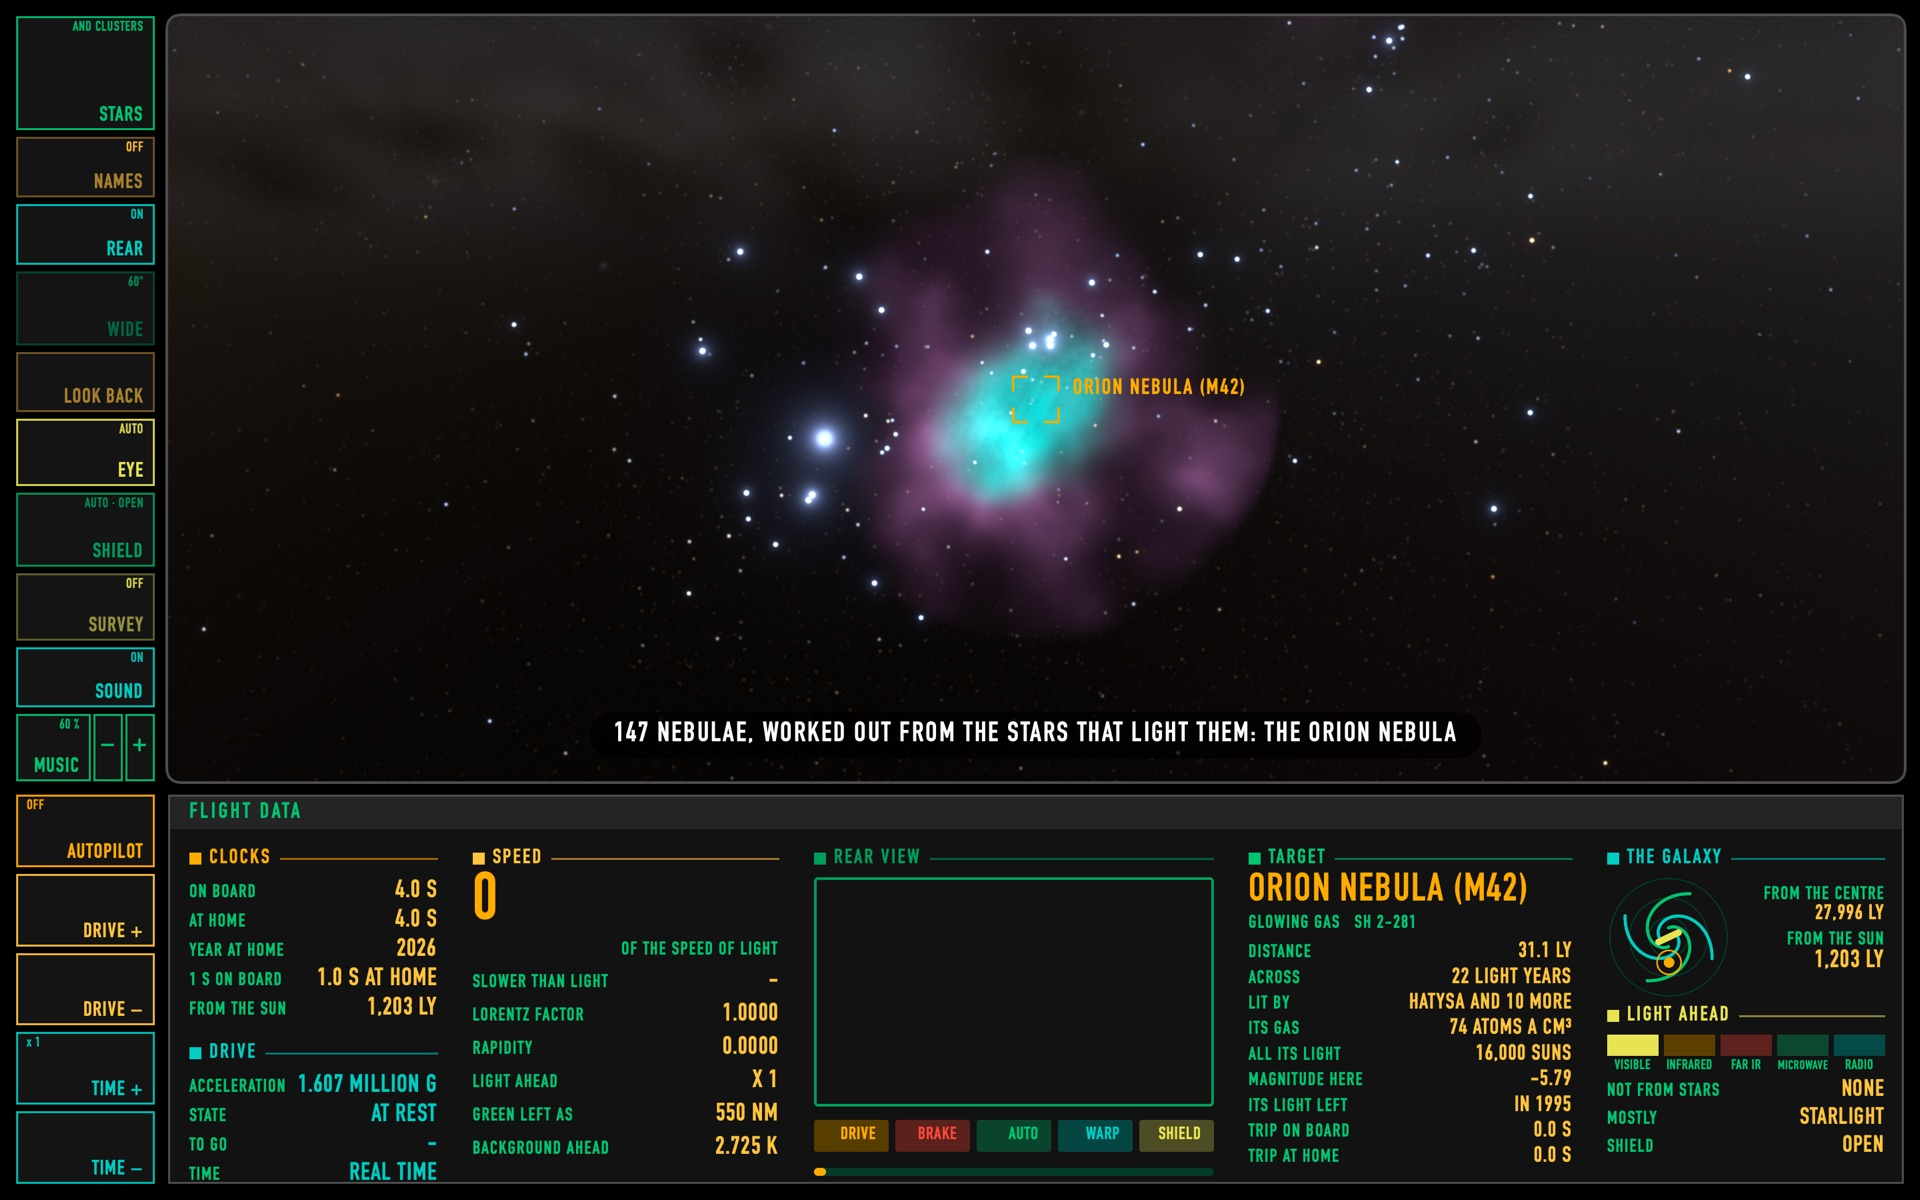
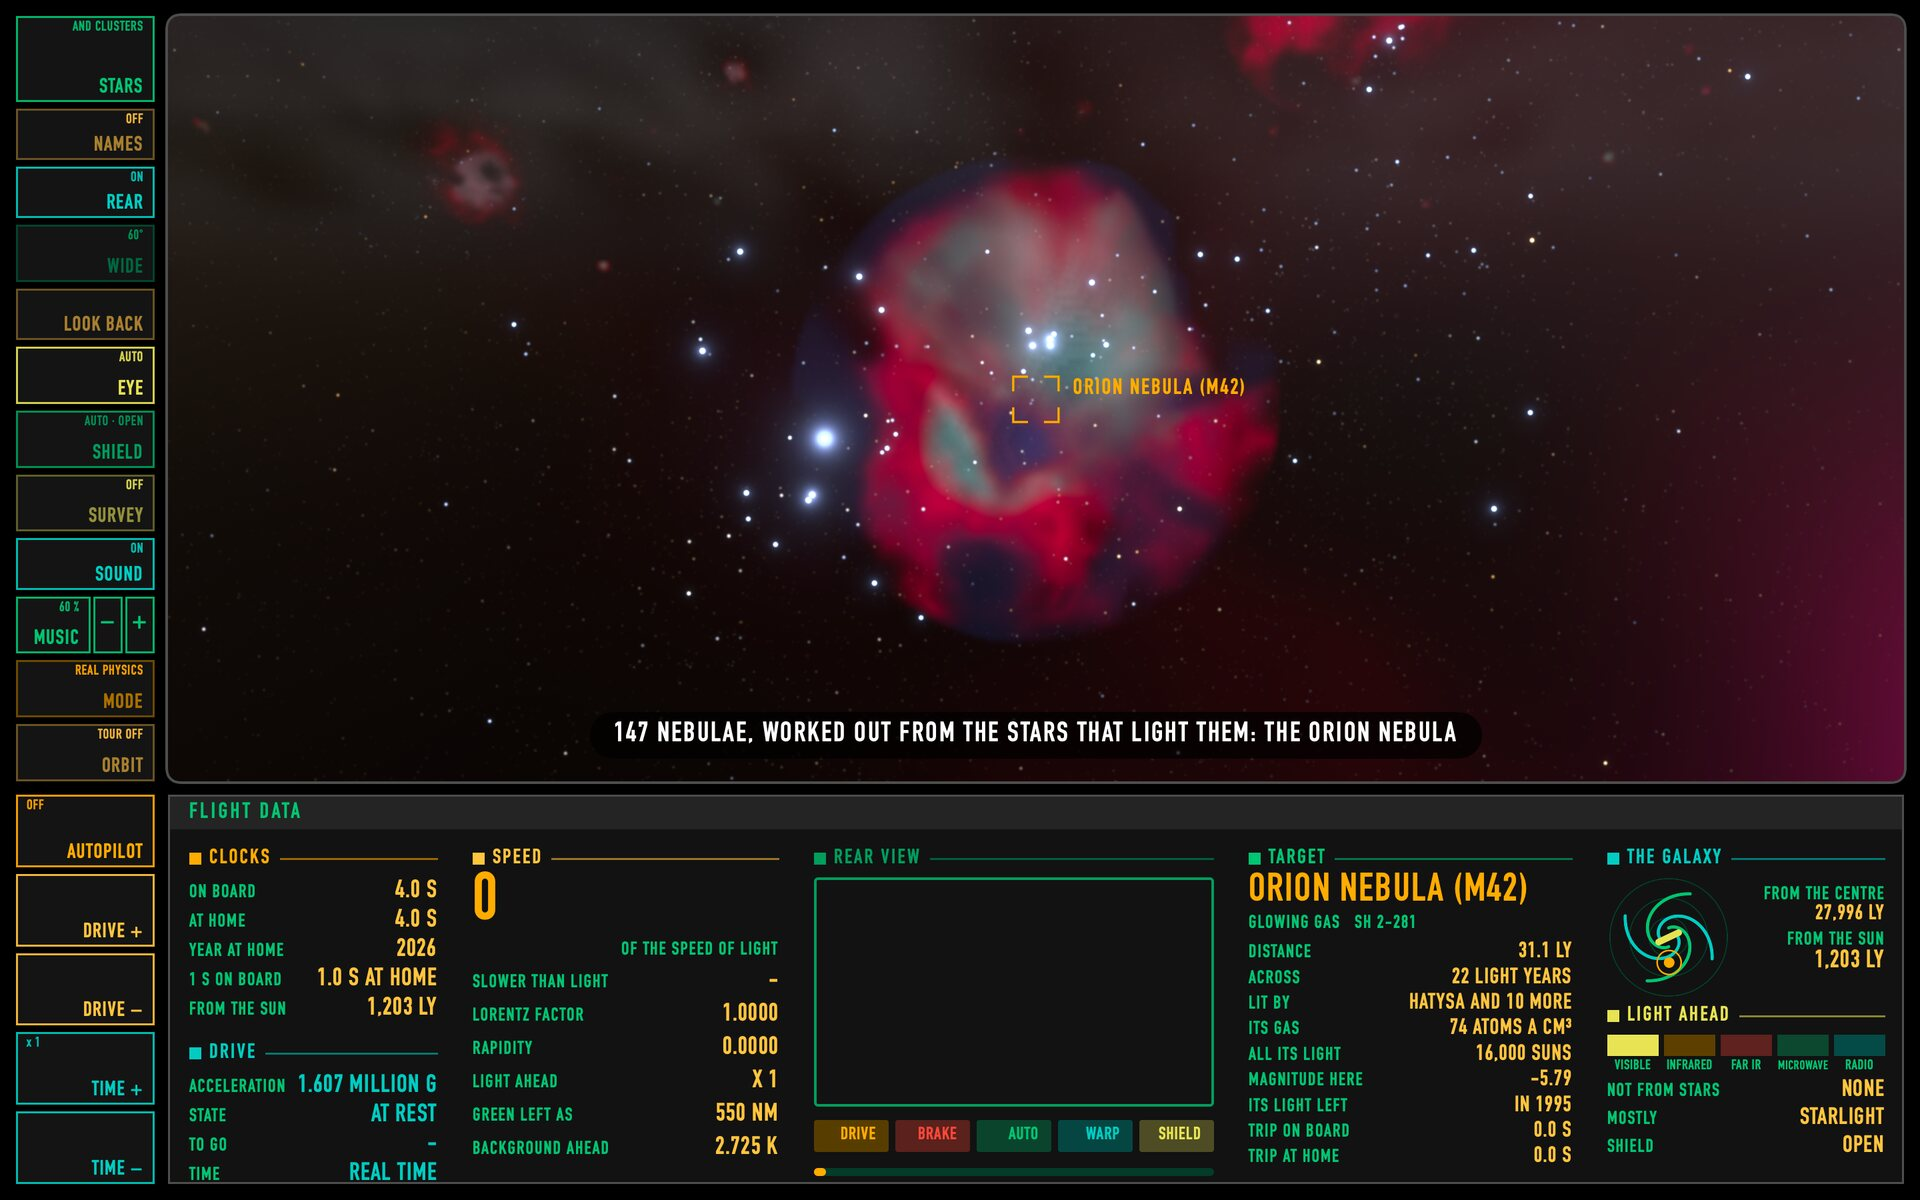
Milky Way Sim: the nebulae as a camera takes them, on the homepage

diff --git a/MilkyWaySim/index.html b/MilkyWaySim/index.html
@@ -456,6 +456,19 @@
             </div>
         </section>
 
+        <section id="nebulae">
+            <div class="wrap grid2">
+                <div class="shot reveal"><img src="img/nebula-orion.jpg" alt="The Orion Nebula in Milky Way Sim: red glowing hydrogen, a blue-green heart and the stars that light it, shaped after a photograph" loading="lazy" width="1920" height="1200"></div>
+                <div class="reveal">
+                    <div class="label">Glowing gas</div>
+                    <h2>Nebulae as a camera takes them</h2>
+                    <p>147 clouds of gas, each lit by the real stars inside it, in the colours of long-exposure photographs: the deep red of hydrogen, the blue-green of oxygen near the hottest stars, dark lanes of dust. One key shows them as the eye would: pale, and only their bright hearts.</p>
+                    <p style="margin-top:14px">Eleven of the best known take their shape from real photographs, among them Orion, the Lagoon, the Eagle, the Trifid and the Rosette. All are three-dimensional: fly in, or let the orbit tour take you round.</p>
+                    <p style="margin-top:14px;font-size:13px;opacity:0.7">Shapes after photographs (CC BY 4.0) by ESO, ESO/Igor Chekalin, ESO/B. Bailleul, KPNO/NOIRLab/NSF/AURA/N. A. Sharp, and T. A. Rector (University of Alaska Anchorage) and H. Schweiker (WIYN and NOIRLab/NSF/AURA).</p>
+                </div>
+            </div>
+        </section>
+
         <section id="cockpit">
             <div class="wrap">
                 <div class="label">The cockpit</div>
